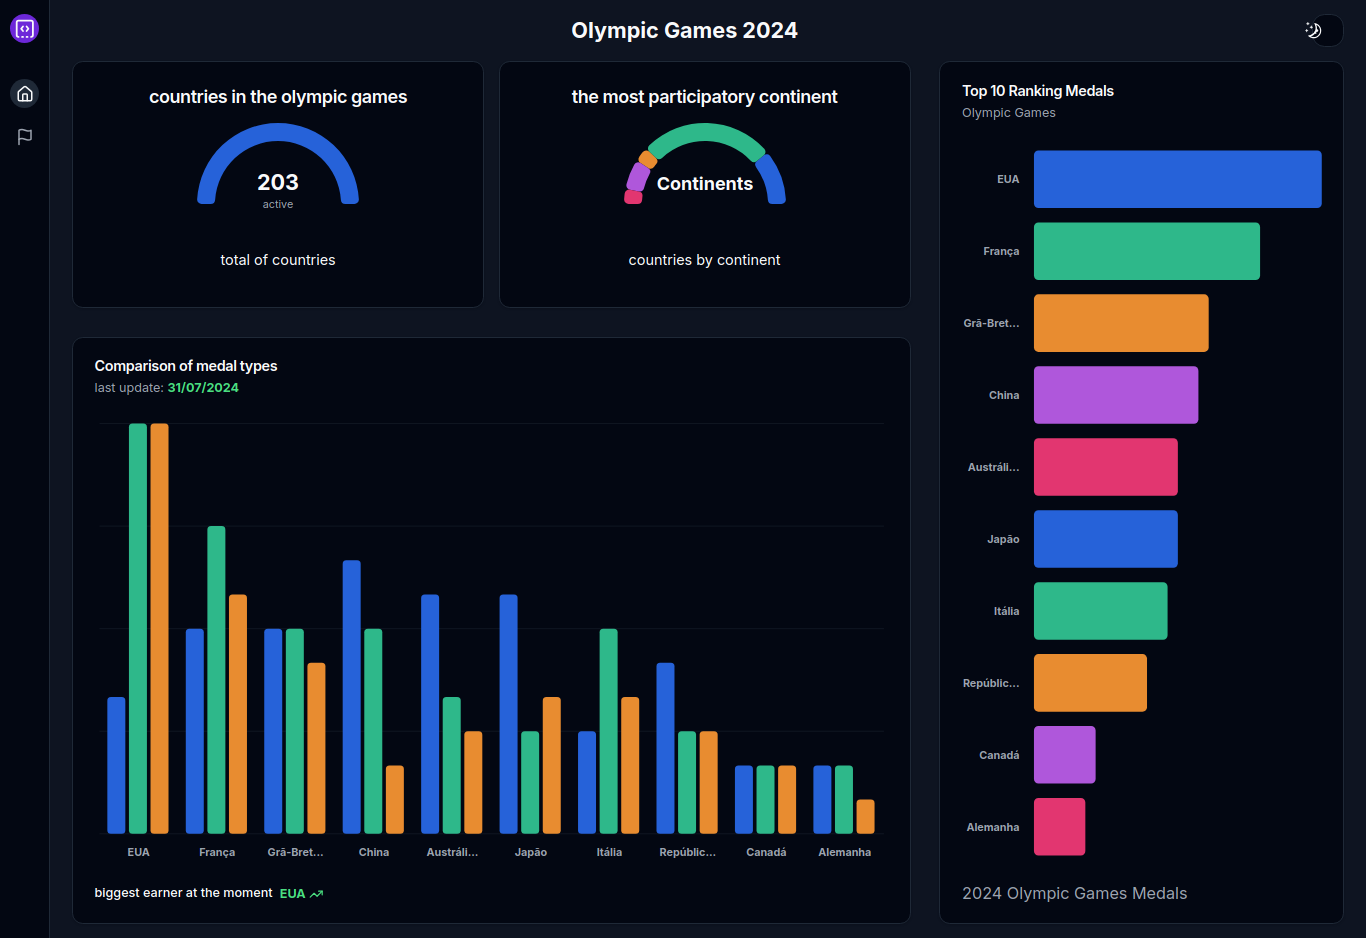
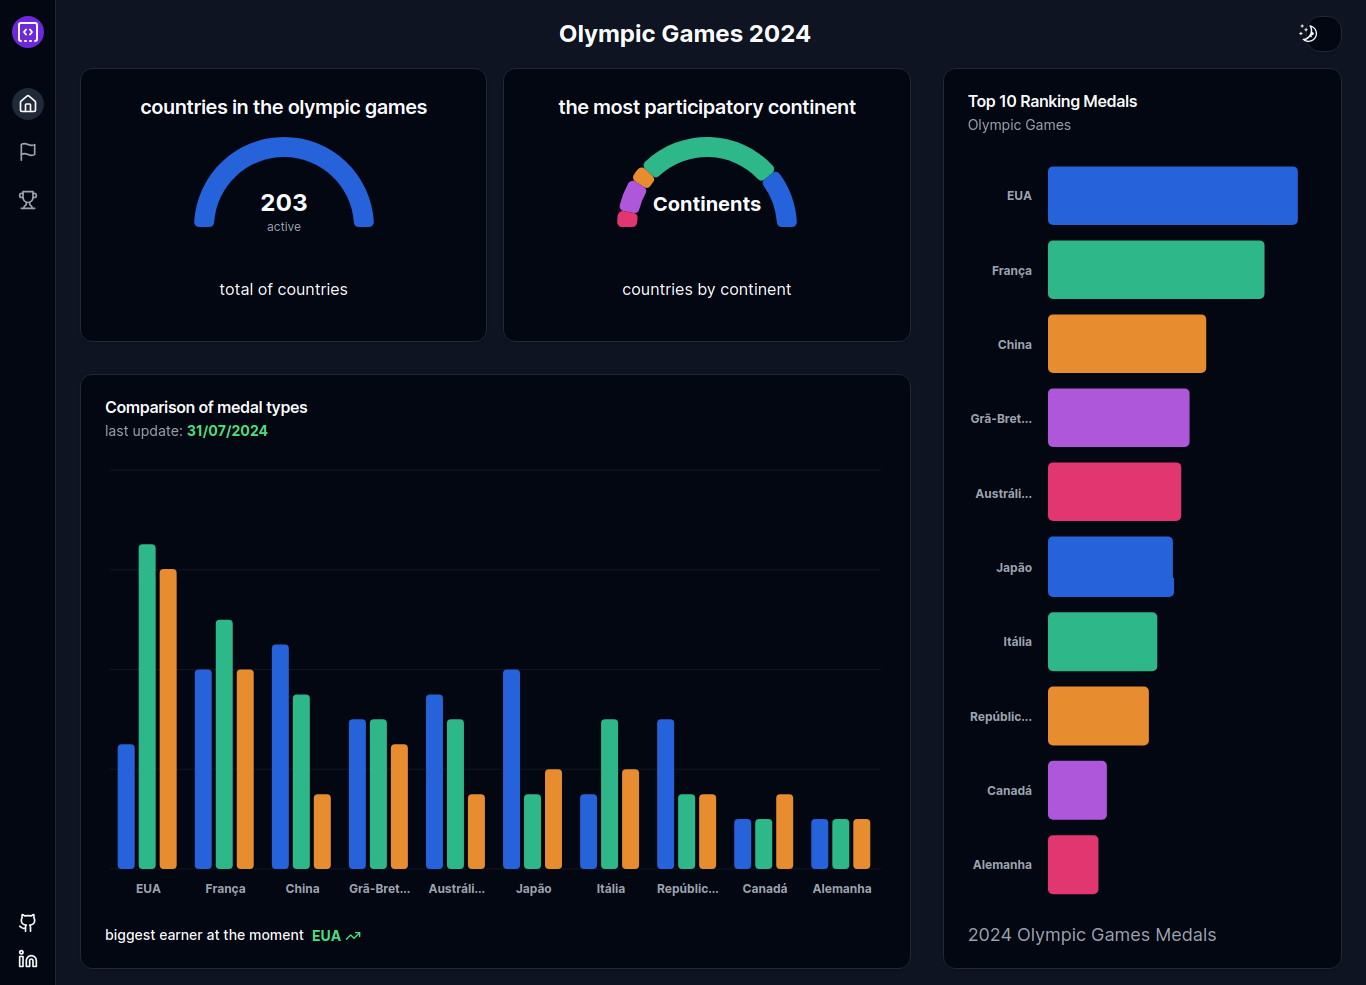
feat: melhorando o design das paginas

diff --git a/src/app/events/_components/event-item.tsx b/src/app/events/_components/event-item.tsx
@@ -24,43 +24,47 @@ const positionIcon = [
 
 const EventItem = ({ data }: EventItemProps) => {
   return (
-    <Card className="flex flex-col w-[300px] relative ">
+    <Card className="flex flex-col w-[300px]">
       <CardHeader>
-        <CardTitle>{data.event_name}</CardTitle>
+        <CardTitle className="flex items-center gap-2 justify-between">
+          {data.discipline_name}{" "}
+          <Badge variant="secondary">{data.status}</Badge>
+        </CardTitle>
         <CardDescription>{data.detailed_event_name}</CardDescription>
       </CardHeader>
       <CardContent
-        className={`flex flex-col gap-2 min-h-[210px] max-h-[210px] overflow-y-auto [&::-webkit-scrollbar]:hidden ${
+        className={`flex flex-col gap-2 h-[150px] ${
           data.competitors.length == 2 ? "mx-auto" : ""
         }`}
       >
-        {data.competitors.map((competitor) => (
-          <div key={crypto.randomUUID()}>
-            <div className="flex items-center gap-2">
-              <Avatar>
-                <AvatarImage src={competitor.country_flag_url} />
-                <AvatarFallback>
-                  {competitor.competitor_name.slice(0, 2).toUpperCase()}
-                </AvatarFallback>
-              </Avatar>
-              <p className="text-sm text-muted-foreground">
-                {competitor.competitor_name}
-              </p>
-              {data.competitors.length == 2 && competitor.position == 0 && (
-                <Crown className="h-8 w-8" color="#d3a01f" />
-              )}
-              {data.competitors.length > 2 && competitor.position < 3 && (
-                <>{positionIcon[competitor.position].icon}</>
-              )}
-            </div>
-            {data.competitors.length == 2 && competitor.position == 0 && (
-              <h2 className="text-3xl text-center">VS</h2>
-            )}
-          </div>
-        ))}
-        <Badge className="absolute top-2 right-2" variant="secondary">
-          {data.status}
-        </Badge>
+        {data.competitors.map((competitor) => {
+          if (competitor.position < 3) {
+            return (
+              <div key={crypto.randomUUID()}>
+                <div className="flex items-center gap-2">
+                  <Avatar>
+                    <AvatarImage src={competitor.country_flag_url} />
+                    <AvatarFallback>
+                      {competitor.competitor_name.slice(0, 2).toUpperCase()}
+                    </AvatarFallback>
+                  </Avatar>
+                  <p className="text-sm text-muted-foreground">
+                    {competitor.competitor_name}
+                  </p>
+                  {data.competitors.length == 2 && competitor.position == 0 && (
+                    <Crown className="h-8 w-8" color="#d3a01f" />
+                  )}
+                  {data.competitors.length > 2 && competitor.position < 3 && (
+                    <>{positionIcon[competitor.position].icon}</>
+                  )}
+                </div>
+                {data.competitors.length == 2 && competitor.position == 0 && (
+                  <h2 className="text-3xl text-center">VS</h2>
+                )}
+              </div>
+            );
+          }
+        })}
       </CardContent>
       <CardFooter className="grid grid-cols-2 gap-2 mt-3">
         <p className="text-sm text-muted-foreground">{data.day}</p>

diff --git a/src/app/page.tsx b/src/app/page.tsx
@@ -25,7 +25,7 @@ export default function Home() {
           >
             <CardHeader className="pb-2">
               <CardTitle className="text-center text-xl mb-2">
-                countries in the olympic games
+                Countries in the olympic games
               </CardTitle>
             </CardHeader>
             <CardContent>
@@ -36,7 +36,7 @@ export default function Home() {
                   color="hsl(var(--chart-1))"
                 />
                 <h3 className="absolute left-1/2 -translate-x-1/2 bottom-4 w-full text-center">
-                  total of countries
+                  Total of countries
                 </h3>
               </div>
             </CardContent>
@@ -48,14 +48,14 @@ export default function Home() {
           >
             <CardHeader className="pb-2">
               <CardTitle className="text-center text-xl mb-2">
-                the most participatory continent
+                The most participatory continent
               </CardTitle>
             </CardHeader>
             <CardContent>
               <div className="relative">
                 <RadialChartContinentComponent data={continents} />
                 <h3 className="absolute left-1/2 -translate-x-1/2 bottom-4 w-full text-center">
-                  countries by continent
+                  Countries by continent
                 </h3>
               </div>
             </CardContent>

diff --git a/src/app/countries/page.tsx b/src/app/countries/page.tsx
@@ -29,7 +29,7 @@ export default function Countries() {
   if (dataCountries.length == 0) return <Loader />;
 
   return (
-    <main className="p-4 mt-4 sm:mt-0">
+    <main className="p-4 mt-4 sm:mx-8 sm:mt-0">
       <Card>
         <CardHeader>
           <CardTitle>Countries</CardTitle>
@@ -37,7 +37,7 @@ export default function Countries() {
             List of countries in the olympic games
           </CardDescription>
         </CardHeader>
-        <CardContent>
+        <CardContent className="h-[60vh] overflow-y-auto [&::-webkit-scrollbar]:hidden">
           <Table>
             <TableHeader>
               <TableRow>
@@ -82,7 +82,7 @@ export default function Countries() {
             </TableBody>
           </Table>
         </CardContent>
-        <CardFooter>
+        <CardFooter className="mt-5">
           <div className="flex justify-center w-full">
             <PaginationList
               currentPage={currentPage}

diff --git a/src/components/charts/bar-chart.tsx b/src/components/charts/bar-chart.tsx
@@ -59,9 +59,7 @@ export function BarChartComponent({ data }: BarChartComponentProps) {
             accessibilityLayer
             data={newArr}
             layout="vertical"
-            margin={{
-              left: 20,
-            }}
+            margin={{ left: 20 }}
           >
             <YAxis
               dataKey="name"
@@ -73,7 +71,7 @@ export function BarChartComponent({ data }: BarChartComponentProps) {
                 if (value.length > 8) return value.slice(0, 8) + "...";
                 return value;
               }}
-              className="font-bold"
+              className="font-bold "
             />
             <XAxis dataKey="total_medals" type="number" hide />
             <ChartTooltip

diff --git a/src/components/pagination-list.tsx b/src/components/pagination-list.tsx
@@ -4,7 +4,6 @@ import {
   PaginationContent,
   PaginationItem,
 } from "@/components/ui/pagination";
-import { scrollTop } from "@/utils/scrool-top";
 import { ChevronLeftIcon, ChevronRightIcon } from "lucide-react";
 
 interface PaginationListProps {
@@ -26,7 +25,6 @@ const PaginationList = ({
             disabled={currentPage === 1}
             onClick={() => {
               previousPage();
-              scrollTop();
             }}
             variant="secondary"
           >
@@ -45,7 +43,6 @@ const PaginationList = ({
             disabled={currentPage === 5}
             onClick={() => {
               nextPage();
-              scrollTop();
             }}
             variant="secondary"
           >

diff --git a/src/app/events/page.tsx b/src/app/events/page.tsx
@@ -11,11 +11,11 @@ const Events = () => {
   if (dataEvents.length == 0) return <Loader />;
 
   return (
-    <main>
-      <h1 className="text-xl pl-5 my-6 text-center sm:text-left">
+    <main className="max-w-[1500px] mx-auto">
+      <h1 className="text-xl pl-5 mt-6 mb-6 sm:mt-0 text-center sm:text-left sm:pl-[8vw]">
         List of Games/Events
       </h1>
-      <section className="flex flex-wrap gap-5 justify-center items-center">
+      <section className="flex flex-wrap gap-5 justify-center items-center h-[70vh] overflow-y-auto [&::-webkit-scrollbar]:hidden">
         {dataEvents.map((data) => (
           <EventItem key={data.id} data={data} />
         ))}
